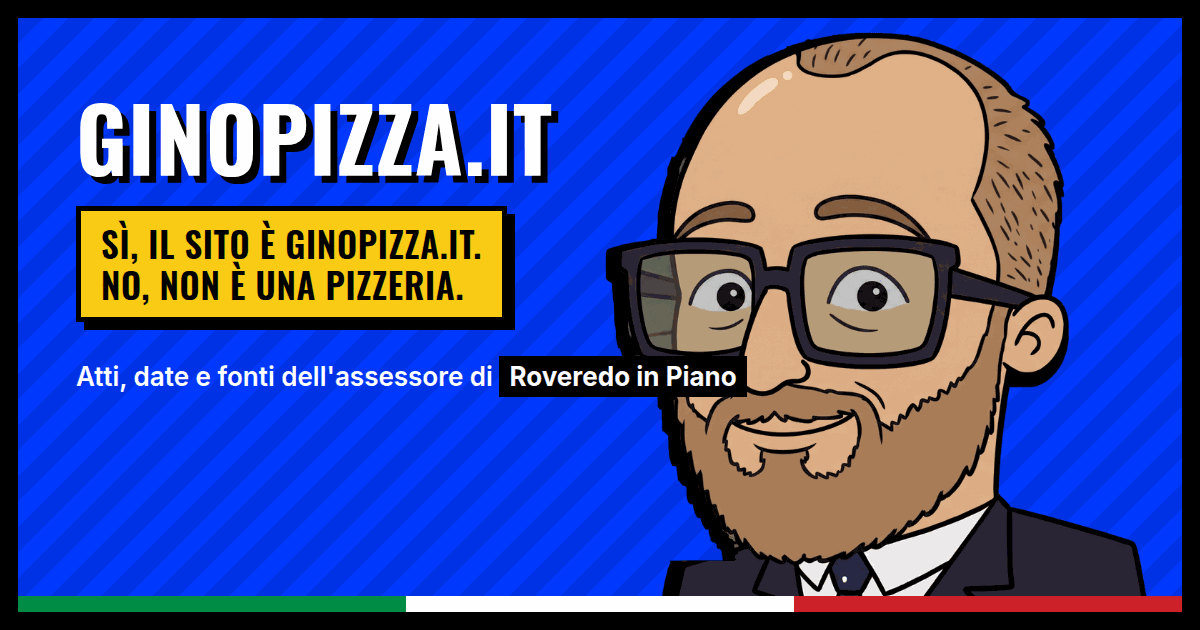
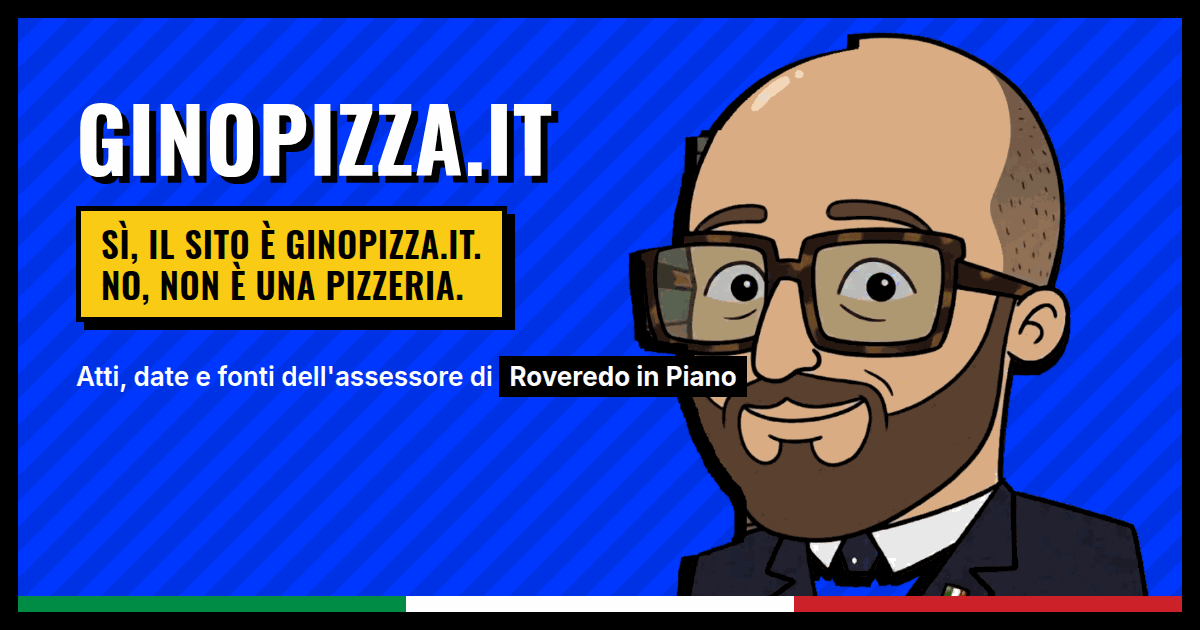
Mette il terzo ritratto e adatta lo scontorno a un disegno più piccolo
Il disegno nuovo è largo 1227 pixel invece di 2400 e ha il tratto più
morbido: le misure in pixel dello scontorno ora si riscalano sulla
larghezza vera, così lo stesso programma lavora su originali di qualsiasi
dimensione.

Tre aggiunte, tutte nate da questo disegno:
il contorno vale come barriera fino a una luce di quaranta, altrimenti il
riempimento passava attraverso il tratto ammorbidito dalla compressione e
si mangiava la giacca; le parti di sfondo chiuse dentro il loro contorno,
come il pannello di legno e il muretto, si riconoscono perché arrivano a
toccare il bordo alto, sinistro o destro, dove il busto non va mai; sotto
la barba il bordo del soggetto non è pelle ma giacca, scura e tendente al
blu, e ora viene riconosciuta anche quella.

Claude-Session: https://claude.ai/code/session_01JMbSEuxVZNQcryUKyYKwZ2

Changed region(s): [[0.4933, 0.0302, 0.9558, 0.9651]]

diff --git a/index.html b/index.html
@@ -80,7 +80,7 @@
         <p>Qui non si sforna niente. Si firmano atti, si fissano date e si risponde di quello che si &egrave;
            fatto. La pizza la fanno meglio in paese: qui si fa il resto.</p>
       </div>
-      <img class="ritratto" src="ritratto.png?v=728543e7" width="760" height="840"
+      <img class="ritratto" src="ritratto.png?v=57c4a8f7" width="760" height="877"
            alt="Ritratto a fumetto di Guido Costalonga: testa pelata, barba, occhiali dalla montatura spessa, giacca blu con la coccarda tricolore.">
     </div>
 

diff --git a/scontorna.py b/scontorna.py
@@ -14,10 +14,18 @@ from collections import deque
 import numpy as np
 from PIL import Image, ImageFilter
 
+# Le misure in pixel qui sotto valgono per un disegno largo LARGHEZZA_BASE;
+# su un disegno di dimensione diversa vengono riscalate in proporzione, così
+# lo stesso programma lavora tanto sull'originale grande quanto su una copia
+# ridotta.
+LARGHEZZA_BASE = 2400
 CORNICE = 45           # cornice scura da togliere prima di cominciare
 BANDA = 35             # entro quanti pixel dai lati il nero è cornice e non disegno
 EROSIONE = 5           # di quanto assottigliare per spezzare i fili sottili
-SOGLIA_SCURO = 25       # solo il nero pieno è contorno: lo sfondo qui è scuro quanto un'ombra
+ORLO = 50              # quanto vicino al bordo deve arrivare una zona per dirla sfondo
+PELLE_CHIARA = 110     # sotto questa luce una zona calda \u00e8 legno, non pelle
+SCURO_GIACCA = 55      # sopra questa luce una zona scura non \u00e8 la giacca
+SOGLIA_SCURO = 40       # sotto questa luce si è nel contorno o in una parte scura del disegno
 TOLLERANZA = 999        # il colore non vincola: a fermare il riempimento basta il contorno
 
 
@@ -27,14 +35,44 @@ TOLLERANZA = 999        # il colore non vincola: a fermare il riempimento basta 
 # seguendo il bordo vero del soggetto, misurato riga per riga.
 QUOTA_ARRIVO = 0.62     # fin dove cercare il soggetto, in frazione di larghezza
 FILA_MINIMA = 10        # quanti pixel di seguito servono per dire "questa è pelle"
-ROSSO_SU_BLU = 45       # quanto il rosso supera il blu nella pelle e nella barba
-ROSSO_SU_VERDE = 20     # quanto il rosso supera il verde: il legno del mobile non ci arriva
+ROSSO_SU_BLU = 30       # quanto il rosso supera il blu nella pelle e nella barba
+ROSSO_SU_VERDE = 14     # quanto il rosso supera il verde: il legno del mobile non ci arriva
 SOGLIA_TRATTO = 70      # sotto questa luce si è dentro al tratto nero del contorno
 CELLA_CHIUSA = 200      # larghezza massima di una cella chiusa dentro il disegno
 CELLA_FREDDA = 25       # una cella da scavalcare non ha il rosso sopra il blu
+BLU_GIACCA = 8          # di quanto il blu supera il rosso nella giacca scura
 SALTI = 3               # quante celle chiuse di seguito si possono scavalcare
 LISCIO = 40             # mezza finestra della statistica che liscia il bordo
 QUANTILE = 50           # la mediana: regge anche cinquanta righe confuse di seguito
+PUNTE = 40               # mezza finestra che spiana le punte rimaste verso sinistra
+
+
+def chiazze(maschera):
+    """Elenca le zone unite della maschera: (maschera della zona, riquadro)."""
+    h, w = maschera.shape
+    visto = np.zeros((h, w), bool)
+    fuori = []
+    for y0 in range(h):
+        for x0 in range(w):
+            if maschera[y0, x0] and not visto[y0, x0]:
+                q = deque([(y0, x0)]); visto[y0, x0] = True
+                punti = []
+                while q:
+                    y, x = q.popleft(); punti.append((y, x))
+                    for dy, dx in ((1, 0), (-1, 0), (0, 1), (0, -1)):
+                        ny, nx = y + dy, x + dx
+                        if 0 <= ny < h and 0 <= nx < w and maschera[ny, nx] and not visto[ny, nx]:
+                            visto[ny, nx] = True; q.append((ny, nx))
+                ys = [p[0] for p in punti]; xs = [p[1] for p in punti]
+                m = np.zeros((h, w), bool)
+                m[ys, xs] = True
+                fuori.append((m, (min(ys), max(ys), min(xs), max(xs))))
+    return fuori
+
+
+def misura(valore, fattore, minimo=1):
+    """Riscala una misura in pixel sulla larghezza vera del disegno."""
+    return max(minimo, int(round(valore * fattore)))
 
 
 def fasce(riga_scura):
@@ -48,7 +86,7 @@ def fasce(riga_scura):
     return out
 
 
-def bordo_del_soggetto(a, lum):
+def bordo_del_soggetto(a, lum, fattore=1.0):
     """Per ogni riga dice dove comincia il soggetto, oppure -1 se non c'è.
 
     Il segno della pelle e della barba è il rosso che supera insieme il blu e
@@ -66,16 +104,22 @@ def bordo_del_soggetto(a, lum):
     h, w, _ = a.shape
     r, g, b = a[:, :, 0], a[:, :, 1], a[:, :, 2]
     pelle = ((r - b) > ROSSO_SU_BLU) & ((r - g) > ROSSO_SU_VERDE)
+    # Sotto la barba il bordo non \u00e8 pelle ma la giacca: scura e tendente al blu.
+    giacca = (lum < SCURO_GIACCA) & ((b - r) > BLU_GIACCA)
+    pelle = pelle | giacca
     scuro = lum < SOGLIA_TRATTO
     arrivo = int(w * QUOTA_ARRIVO)
+    fila_minima = misura(FILA_MINIMA, fattore)
+    cella_chiusa = misura(CELLA_CHIUSA, fattore)
+    liscio_meta = misura(LISCIO, fattore)
     bordo = np.full(h, -1)
     for y in range(h):
         x, fila = -1, 0
         for i in range(arrivo):
             if pelle[y, i]:
                 fila += 1
-                if fila >= FILA_MINIMA:
-                    x = i - FILA_MINIMA + 1
+                if fila >= fila_minima:
+                    x = i - fila_minima + 1
                     break
             else:
                 fila = 0
@@ -94,7 +138,7 @@ def bordo_del_soggetto(a, lum):
                 break
             p, q, _s = fs[i - 1]
             freddo = int(np.mean(r[y, p:q + 1]) - np.mean(b[y, p:q + 1])) < CELLA_FREDDA
-            if (q - p + 1) <= CELLA_CHIUSA and freddo and i - 2 >= 0:
+            if (q - p + 1) <= cella_chiusa and freddo and i - 2 >= 0:
                 i -= 2                      # era una cella chiusa: si scavalca
             else:
                 break                       # era lo sfondo: il bordo è questo
@@ -105,18 +149,32 @@ def bordo_del_soggetto(a, lum):
     # lascia un filo di sfondo invece di mangiare un pezzo di disegno.
     liscio = bordo.copy()
     for y in range(h):
-        finestra = [v for v in bordo[max(0, y - LISCIO):y + LISCIO + 1] if v >= 0]
+        finestra = [v for v in bordo[max(0, y - liscio_meta):y + liscio_meta + 1] if v >= 0]
         if finestra and bordo[y] >= 0:
             liscio[y] = int(np.percentile(finestra, QUANTILE))
-    return liscio
+    # Qualche riga isolata scappa ancora a sinistra e lascia un filo di
+    # televisore attaccato: si spiana tenendo, in una finestrella, il valore
+    # pi\u00f9 a destra. Costa un paio di pixel di disegno, toglie le punte.
+    punte = misura(PUNTE, fattore)
+    spianato = liscio.copy()
+    for y in range(h):
+        finestra = [v for v in liscio[max(0, y - punte):y + punte + 1] if v >= 0]
+        if finestra and liscio[y] >= 0:
+            spianato[y] = max(finestra)
+    return spianato
 
 
 def scontorna(entrata, uscita, margine=14):
     im = Image.open(entrata).convert("RGB")
+    fattore = im.width / float(LARGHEZZA_BASE)
+    cornice = misura(CORNICE, fattore)
+    banda = misura(BANDA, fattore)
+    erosione = misura(EROSIONE, fattore, 2)
+    margine = misura(margine, fattore)
     # L'immagine ha una cornice scura tutt'intorno: se non la si toglie,
     # il riempimento non ha da dove partire perché ogni bordo risulta contorno.
-    if CORNICE:
-        im = im.crop((CORNICE, CORNICE, im.width - CORNICE, im.height - CORNICE))
+    if cornice:
+        im = im.crop((cornice, cornice, im.width - cornice, im.height - cornice))
     a = np.asarray(im).astype(np.int16)
     h, w, _ = a.shape
     lum = (0.2126 * a[:, :, 0] + 0.7152 * a[:, :, 1] + 0.0722 * a[:, :, 2])
@@ -155,14 +213,34 @@ def scontorna(entrata, uscita, margine=14):
         for dy, dx in ((1, 0), (-1, 0), (0, 1), (0, -1)):
             ny, nx = y + dy, x + dx
             if (0 <= ny < h and 0 <= nx < w and not sfondo[ny, nx] and scuro[ny, nx]
-                    and (nx < BANDA or nx >= w - BANDA)):
+                    and (nx < banda or nx >= w - banda)):
                 sfondo[ny, nx] = True
                 coda.append((ny, nx))
+
+    # 1ter. Le parti dello sfondo chiuse dentro il loro contorno (il pannello
+    # di legno, il muretto, il piede del mobile) non le raggiunge nessun
+    # riempimento. Si riconoscono da una cosa sola: arrivano a toccare il
+    # bordo alto, sinistro o destro del quadro, dove il personaggio non va
+    # mai, perch\u00e9 il busto esce soltanto dal bordo basso.
+    orlo = misura(ORLO, fattore)
+    for chiazza in chiazze(~sfondo & ~scuro):
+        y1, y2, x1, x2 = chiazza[1]
+        if not (y1 <= orlo or x1 <= orlo or x2 >= w - 1 - orlo):
+            continue
+        zona = chiazza[0]
+        luce = float(lum[zona].mean())
+        rosso = float(a[:, :, 0][zona].mean())
+        verde = float(a[:, :, 1][zona].mean())
+        blu = float(a[:, :, 2][zona].mean())
+        calda = (rosso - blu) > ROSSO_SU_BLU and (rosso - verde) > ROSSO_SU_VERDE
+        if (calda and luce > PELLE_CHIARA) or luce < SCURO_GIACCA:
+            continue                       # \u00e8 pelle chiara o la giacca scura
+        sfondo[zona] = True
 
     # 2. Taglio a sinistra lungo il bordo vero del soggetto: così televisore e
     # mobile si staccano dal personaggio prima ancora di contare le sagome.
     davanti = ~sfondo
-    bordo = bordo_del_soggetto(a, lum)
+    bordo = bordo_del_soggetto(a, lum, fattore)
     for y in range(h):
         if bordo[y] > 0:
             davanti[y, :bordo[y]] = False
@@ -173,7 +251,7 @@ def scontorna(entrata, uscita, margine=14):
     # tengono ancora attaccato il televisore si spezzano, mentre la figura,
     # che è spessa, resta tutta intera. Alla fine si rigonfia di altrettanto.
     m = Image.fromarray((davanti * 255).astype(np.uint8), "L")
-    m = m.filter(ImageFilter.MinFilter(2 * EROSIONE + 1))
+    m = m.filter(ImageFilter.MinFilter(2 * erosione + 1))
     davanti = np.asarray(m) > 127
     etichette = np.zeros((h, w), np.int32)
     n, migliore, dim_migliore = 0, 0, 0
@@ -192,7 +270,7 @@ def scontorna(entrata, uscita, margine=14):
                     dim_migliore, migliore = dim, n
     soggetto = etichette == migliore
     m = Image.fromarray((soggetto * 255).astype(np.uint8), "L")
-    m = m.filter(ImageFilter.MaxFilter(2 * EROSIONE + 1))
+    m = m.filter(ImageFilter.MaxFilter(2 * erosione + 1))
     soggetto = (np.asarray(m) > 127) & ~sfondo
     print("sagome trovate: %d | personaggio: %d pixel (%.1f%% del quadro)"
           % (n, dim_migliore, 100.0 * dim_migliore / (h * w)))

diff --git a/costruisci.py b/costruisci.py
@@ -265,7 +265,7 @@ CORPO_INDEX = """
         <p>Qui non si sforna niente. Si firmano atti, si fissano date e si risponde di quello che si &egrave;
            fatto. La pizza la fanno meglio in paese: qui si fa il resto.</p>
       </div>
-      <img class="ritratto" src="ritratto.png""" + impronta("ritratto.png") + """" width="760" height="840"
+      <img class="ritratto" src="ritratto.png""" + impronta("ritratto.png") + """" width="760" height="877"
            alt="Ritratto a fumetto di Guido Costalonga: testa pelata, barba, occhiali dalla montatura spessa, giacca blu con la coccarda tricolore.">
     </div>
 
